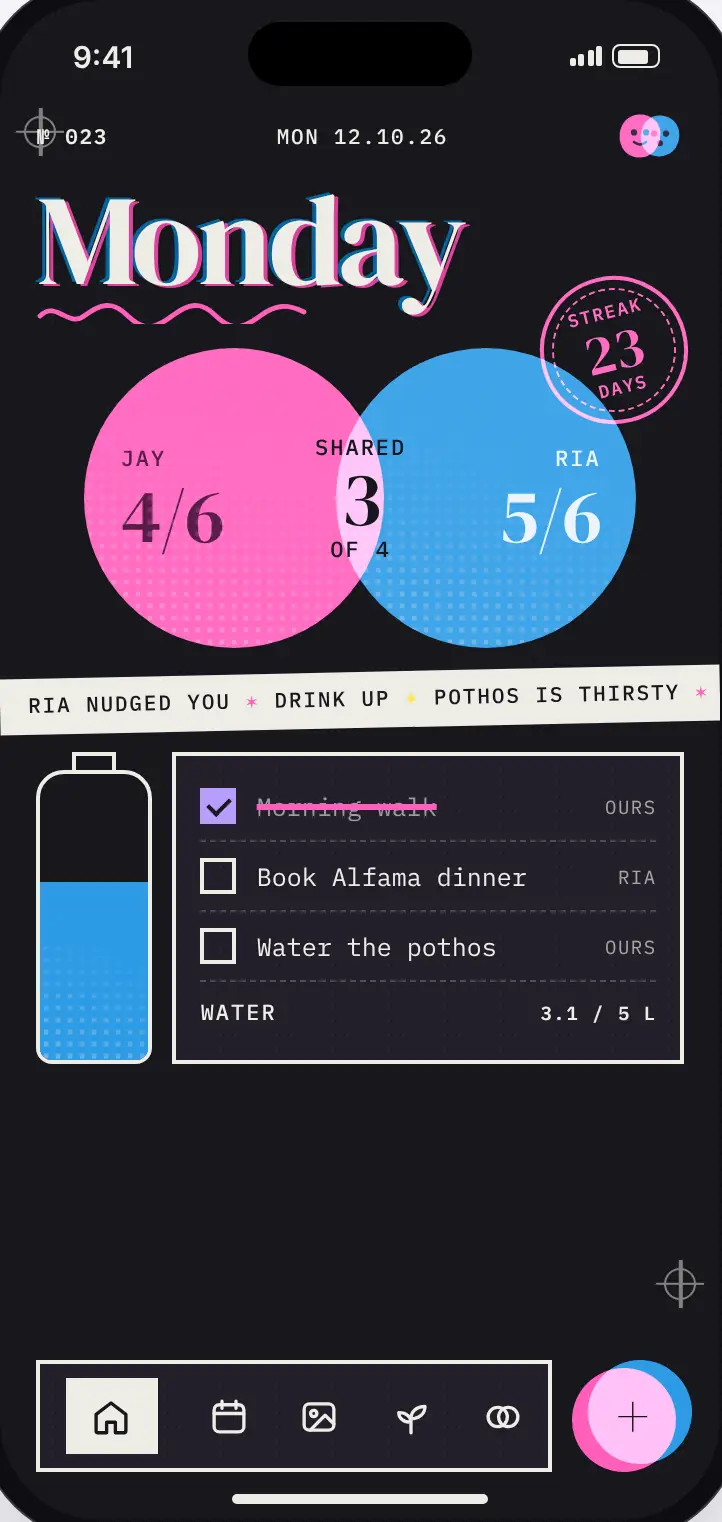
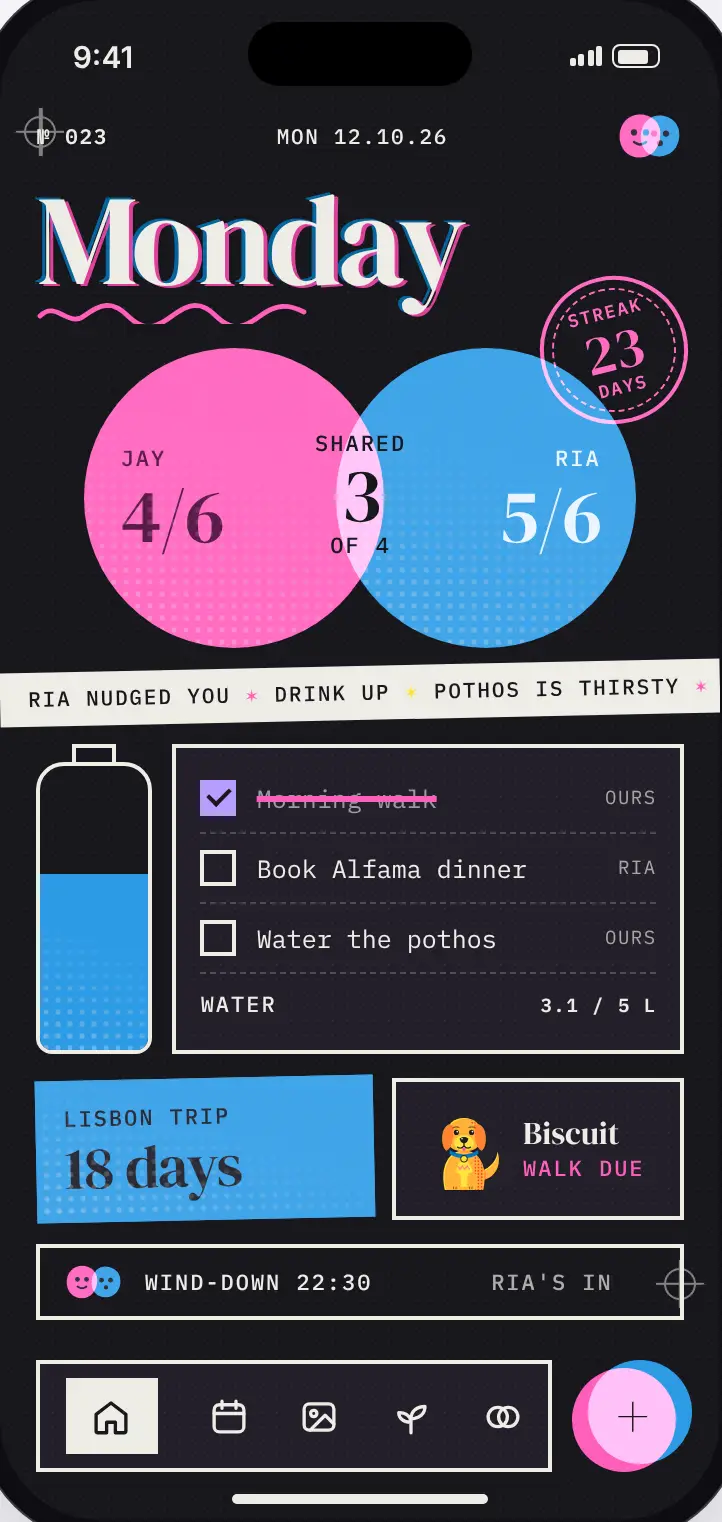
New hero, fuller home screen, scroll effects
Hero pairs the home and water screens with a nudge note, a dog and a
monstera. Home screen gains a trip countdown, pet card and wind-down
row. Scroll progress bar, speed-linked misregistration, parallax drift
and ticker skew (all off under reduced motion). Text selection off.
Removed sign-in mentions.

Claude-Session: https://claude.ai/code/session_01V7NwzhAa3YHPEejGS6mrdA

diff --git a/styles.css b/styles.css
@@ -27,6 +27,9 @@ body{margin:0;background:var(--paper);color:var(--ink);font:400 17px/1.55 var(--
   background-image:radial-gradient(var(--dot) .6px,transparent .9px);background-size:5px 5px}
 img{display:block;max-width:100%;height:auto}
 a{color:inherit}
+html{-webkit-user-select:none;user-select:none;-webkit-touch-callout:none}
+img,svg,a{-webkit-user-drag:none}
+input,textarea{-webkit-user-select:text;user-select:text}
 h1,h2,h3,p,ol,ul,dl,dd,figure{margin:0}
 ol,ul{padding:0;list-style:none}
 [hidden]{display:none!important}
@@ -38,8 +41,8 @@ ol,ul{padding:0;list-style:none}
 .sr-only{position:absolute;width:1px;height:1px;overflow:hidden;clip:rect(0 0 0 0);white-space:nowrap}
 
 /* print kit */
-.mis{text-shadow:.035em .02em 0 color-mix(in srgb,var(--pink) 80%,transparent),-.035em -.02em 0 color-mix(in srgb,var(--blue) 75%,transparent)}
-.mis--night{text-shadow:.04em .03em 0 color-mix(in srgb,var(--pink) 90%,transparent)}
+.mis{text-shadow:calc(.035em + var(--v,0) * .05em) calc(.02em + var(--v,0) * .025em) 0 color-mix(in srgb,var(--pink) 80%,transparent),calc(-.035em - var(--v,0) * .05em) calc(-.02em - var(--v,0) * .025em) 0 color-mix(in srgb,var(--blue) 75%,transparent)}
+.mis--night{text-shadow:calc(.04em + var(--v,0) * .06em) calc(.03em + var(--v,0) * .03em) 0 color-mix(in srgb,var(--pink) 90%,transparent)}
 .lab,.meta{font:500 12px/1.3 var(--mono);letter-spacing:.12em;text-transform:uppercase;color:var(--grey)}
 .meta{display:flex;justify-content:space-between;max-width:420px;border-bottom:2px solid var(--ink);padding-bottom:8px;color:var(--ink)}
 .h2{font:400 clamp(40px,5.6vw,76px)/.95 var(--serif);letter-spacing:-.02em;margin-top:12px;max-width:16ch}
@@ -100,12 +103,22 @@ ol,ul{padding:0;list-style:none}
 .hero__blob--a{color:var(--pink);left:-4%;top:6%;animation:bob 7s ease-in-out infinite}
 .hero__blob--b{color:var(--blue);right:-6%;bottom:4%;animation:bob 7s ease-in-out infinite -3.5s}
 @keyframes bob{50%{translate:0 -14px;rotate:3deg}}
-.stamp--hero{right:2%;top:2%}
+.stamp--hero{right:2%;top:2%;z-index:4}
+.hero__plant{position:absolute;z-index:3;width:clamp(90px,10vw,150px);left:-20%;top:6%;rotate:-8deg;transform-origin:50% 100%}
+.hero__pet{position:absolute;z-index:4;width:clamp(96px,10vw,148px);right:4%;bottom:-2%;transform-origin:50% 100%}
+.progress{position:fixed;inset:0 0 auto;height:4px;z-index:60;pointer-events:none}
+.progress i{display:block;height:100%;width:100%;transform-origin:0 50%;transform:scaleX(var(--sp,0));background:linear-gradient(90deg,var(--pink),var(--blue))}
+.hero__art .phone--back{position:absolute;width:min(20vw,250px);right:-2%;top:12%;rotate:8deg;z-index:1;box-shadow:0 0 0 1.5px #3A3842,12px 12px 0 color-mix(in srgb,var(--pink) 85%,transparent)}
+.hnote{position:absolute;z-index:3;left:-22%;bottom:-1%;display:flex;gap:12px;align-items:center;max-width:290px;padding:14px 16px;background:#FAF9F5;color:#1B1B1F;border:2.5px solid #1B1B1F;box-shadow:6px 6px 0 var(--blue);rotate:-4deg}
+.hnote::before{content:"";position:absolute;width:70px;height:20px;top:-11px;left:50%;translate:-50% 0;rotate:3deg;background:color-mix(in srgb,#FFE33B 85%,transparent)}
+.hnote__blob{flex:none;width:44px;height:44px;color:#0078BF}
+.hnote__lab{display:block;font:500 10.5px/1.3 var(--mono);letter-spacing:.1em;text-transform:uppercase;color:#5F5D66}
+.hnote b{display:block;font:400 22px/1.05 var(--serif);margin-top:4px}
 
 /* phones */
 .phone{position:relative;border-radius:15% / 7.1%;background:#0E0D12;padding:3.2%;box-shadow:0 0 0 1.5px #3A3842}
 .phone img{width:100%;aspect-ratio:722/1522;border-radius:13.4% / 6.36%}
-.phone--hero{width:min(25vw,310px);rotate:3deg;z-index:2;box-shadow:0 0 0 1.5px #3A3842,14px 14px 0 color-mix(in srgb,var(--blue) 85%,transparent)}
+.phone--hero{width:min(25vw,310px);rotate:-3deg;z-index:2;margin-right:22%;box-shadow:0 0 0 1.5px #3A3842,14px 14px 0 color-mix(in srgb,var(--blue) 85%,transparent)}
 
 /* ticker */
 .ticker{border-block:2.5px solid var(--ink);background:var(--ink);color:var(--paper);overflow:hidden;font:500 13px/1 var(--mono);letter-spacing:.12em;text-transform:uppercase}
@@ -296,7 +309,14 @@ details p{color:var(--grey);padding:0 0 22px;max-width:56ch}
   .hero__title{font-size:clamp(44px,12.5vw,64px)}
   .hero__art{min-height:0;padding:var(--s4) 0 var(--s3)}
   .hero__blob{width:62vw;height:62vw}
-  .phone--hero{width:62vw;max-width:280px}
+  .phone--hero{width:56vw;max-width:270px;margin-right:24%}
+  .hero__art .phone--back{width:42vw;max-width:200px;right:0;top:14%}
+  .hero__art{padding-bottom:64px}
+  .hnote{left:0;bottom:0;max-width:min(78vw,280px);padding:10px 12px}
+  .hnote b{font-size:18px}
+  .hnote__blob{width:34px;height:34px}
+  .hero__plant{width:74px;left:-2%;top:30%}
+  .hero__pet{width:84px;right:0;bottom:0}
   .stamp--hero{width:88px;height:88px;font-size:9px;right:0;top:0}
   .stamp b{font-size:26px}
 
@@ -383,19 +403,29 @@ details p{color:var(--grey);padding:0 0 22px;max-width:56ch}
 @media (prefers-reduced-motion:no-preference){
   /* headings print slightly off-register, then settle */
   .js .h2.mis,.js .get__title{text-shadow:none}
-  .js .h2.mis.is-in,.js .get__title.is-in{animation:settle 1.1s var(--ease) both}
+  .js .h2.mis.is-in,.js .get__title.is-in{animation:settle 1.1s var(--ease) backwards}
   @keyframes settle{
     from{text-shadow:.16em .09em 0 color-mix(in srgb,var(--pink) 80%,transparent),-.16em -.09em 0 color-mix(in srgb,var(--blue) 75%,transparent)}
     to{text-shadow:.035em .02em 0 color-mix(in srgb,var(--pink) 80%,transparent),-.035em -.02em 0 color-mix(in srgb,var(--blue) 75%,transparent)}}
   .js .night .h2.mis.is-in,.js .get__title.is-in{animation-name:settle-night}
   @keyframes settle-night{from{text-shadow:.16em .1em 0 color-mix(in srgb,var(--pink) 90%,transparent)}to{text-shadow:.04em .03em 0 color-mix(in srgb,var(--pink) 90%,transparent)}}
 
+  /* hero pet and plant */
+  .hero__pet{animation:wag 2.6s ease-in-out infinite}
+  .hero__plant{animation:sway 5s ease-in-out infinite}
+  @keyframes wag{0%,100%{rotate:0deg}20%{rotate:-4deg;translate:0 -6px}40%{rotate:3deg;translate:0 0}}
+  .hero__pet,.hero__plant{transform:translateY(calc(var(--py,0) * -.22px))}
+  /* scroll-linked drift */
+  [data-par]{transform:translateY(var(--par,0px))}
+  .ticker{transform:skewX(calc(var(--v,0) * -8deg))}
   /* hero: the title settles on load, the phone floats, blobs drift on scroll */
-  .hero__title{animation:settle 1.4s .15s var(--ease) both}
+  .hero__title{animation:settle 1.4s .15s var(--ease) backwards}
   .phone--hero{animation:float 6s ease-in-out infinite}
   .hero__blob--a{transform:translateY(calc(var(--py,0) * -.18px))}
   .hero__blob--b{transform:translateY(calc(var(--py,0) * .12px))}
   .hero__art .phone--hero{transform:translateY(calc(var(--py,0) * -.08px))}
+  .phone--back{animation:float 7s ease-in-out infinite -2.5s}
+  .hnote{animation:bob-sm 4.5s ease-in-out infinite -1s}
   @keyframes float{50%{translate:0 -12px}}
   .stamp{animation:spin 40s linear infinite}
   @keyframes spin{to{rotate:372deg}}

diff --git a/index.html b/index.html
@@ -29,6 +29,7 @@
 </script>
 </head>
 <body>
+<div class="progress" aria-hidden="true"><i></i></div>
 <svg width="0" height="0" style="position:absolute" aria-hidden="true"><symbol id="blob1" viewBox="0 0 40 40"><path fill="currentColor" d="M20 2c9 0 17 6 17 16 0 11-7 20-17 20S3 31 3 20C3 9 11 2 20 2z"/><circle cx="15" cy="17" r="2.6" fill="#1B1B1F"/><circle cx="25" cy="17" r="2.6" fill="#1B1B1F"/><path d="M15 25q5 4 10 0" stroke="#1B1B1F" stroke-width="2" fill="none" stroke-linecap="round"/></symbol><symbol id="blob2" viewBox="0 0 40 40"><path fill="currentColor" d="M21 3c10 1 16 8 15 18-1 10-8 16-17 16S3 30 4 19C5 9 12 2 21 3z"/><circle cx="15" cy="18" r="2.6" fill="#1B1B1F"/><circle cx="25" cy="18" r="2.6" fill="#1B1B1F"/><circle cx="20" cy="26" r="2.4" fill="#1B1B1F"/></symbol><symbol id="star" viewBox="0 0 24 24"><path fill="currentColor" d="M12 1l2.4 7.6L22 11l-7.6 2.4L12 21l-2.4-7.6L2 11l7.6-2.4z"/></symbol><symbol id="squig" viewBox="0 0 140 12"><path d="M2 8c8-8 14 6 22 0s14-8 22 0 14 6 22 0 14-8 22 0 14 6 22 0 14-6 22-2" fill="none" stroke="currentColor" stroke-width="2.4" stroke-linecap="round"/></symbol></svg>
 <svg width="0" height="0" style="position:absolute" aria-hidden="true">
   <defs>
@@ -205,13 +206,22 @@
     <div class="hero__art">
       <svg class="hero__blob hero__blob--a" aria-hidden="true"><use href="#blob1"/></svg>
       <svg class="hero__blob hero__blob--b" aria-hidden="true"><use href="#blob2"/></svg>
+      <figure class="phone phone--back">
+        <img src="img/water.webp" alt="" width="722" height="1522" loading="eager">
+      </figure>
       <figure class="phone phone--hero">
         <span class="tape" aria-hidden="true"></span>
         <picture>
           <source srcset="img/home-dark.webp" media="(prefers-color-scheme: dark)" data-dark-src>
-          <img src="img/home.webp" alt="Home screen: Jay's and Ria's tasks overlap in the middle, with a shared water bottle and today's list" width="722" height="1522" fetchpriority="high">
+          <img src="img/home.webp" alt="Home screen: Jay's and Ria's tasks overlap in the middle, with shared water, today's list, a trip countdown, Biscuit the dog and tonight's wind-down" width="722" height="1522" fetchpriority="high">
         </picture>
       </figure>
+      <div class="hnote" aria-hidden="true">
+        <svg class="hnote__blob"><use href="#blob2"/></svg>
+        <div><span class="hnote__lab">Nudge from Ria · 14:06</span><b>Sip something, you raisin.</b></div>
+      </div>
+      <svg class="hero__plant" viewBox="0 0 120 120" aria-hidden="true"><use href="#pl-monstera"/></svg>
+      <svg class="hero__pet" viewBox="0 0 120 120" aria-hidden="true"><use href="#pet-dog"/></svg>
       <span class="stamp stamp--hero" aria-hidden="true">Two<b>×</b>One</span>
     </div>
   </div>
@@ -326,7 +336,7 @@
       <li><svg viewBox="0 0 120 120" role="img" aria-label="Goldie, a goldfish"><use href="#pet-fish"/></svg><b>Goldie</b><span>Goldfish</span></li>
     </ul>
     <div class="world__row">
-      <figure class="phone phone--world"><img src="img/pet.webp" alt="Biscuit's page: a portrait, a mood stamp, four needs bars and care buttons" width="722" height="1522" loading="lazy"></figure>
+      <figure class="phone phone--world" data-par="0.07"><img src="img/pet.webp" alt="Biscuit's page: a portrait, a mood stamp, four needs bars and care buttons" width="722" height="1522" loading="lazy"></figure>
       <div class="plants">
         <p class="lab">Plus ten plants</p>
         <div class="plants__row">
@@ -336,7 +346,7 @@
         </div>
         <p class="body">Each one grows through three sizes. A long streak shows up as a fuller plant.</p>
       </div>
-      <figure class="phone phone--world phone--tilt"><img src="img/greenhouse.webp" alt="The greenhouse: plants on printed shelves, locked ones shown as outlines" width="722" height="1522" loading="lazy"></figure>
+      <figure class="phone phone--world phone--tilt" data-par="-0.07"><img src="img/greenhouse.webp" alt="The greenhouse: plants on printed shelves, locked ones shown as outlines" width="722" height="1522" loading="lazy"></figure>
     </div>
   </div>
 </section>
@@ -365,8 +375,8 @@
       </div>
     </div>
     <div class="night__art">
-      <figure class="phone phone--night-a"><img src="img/night-write.webp" alt="Writing screen: a shared timer at 07:48 and both word counts" width="722" height="1522" loading="lazy"></figure>
-      <figure class="phone phone--night-b"><img src="img/night-after.webp" alt="After writing: lights out, word counts, and words you both used" width="722" height="1522" loading="lazy"></figure>
+      <figure class="phone phone--night-a" data-par="0.09"><img src="img/night-write.webp" alt="Writing screen: a shared timer at 07:48 and both word counts" width="722" height="1522" loading="lazy"></figure>
+      <figure class="phone phone--night-b" data-par="-0.07"><img src="img/night-after.webp" alt="After writing: lights out, word counts, and words you both used" width="722" height="1522" loading="lazy"></figure>
     </div>
   </div>
 </section>
@@ -382,7 +392,7 @@
       <div><dt>Missed a day</dt><dd>Leaves blank paper, not a broken number.</dd></div>
       <div><dt>Private tasks</dt><dd>Print in grey with a lock. Your partner doesn't see them.</dd></div>
       <div><dt>Your journal</dt><dd>Only you can read it. They see stats and mood.</dd></div>
-      <div><dt>Sign in</dt><dd>With Apple. No new password.</dd></div>
+      <div><dt>Pets</dt><dd>Wander off if forgotten. Call them home three days running.</dd></div>
     </dl>
   </div>
 </section>
@@ -416,7 +426,7 @@
       </div>
       <p class="get__status" role="status" data-share-status></p>
     </div>
-    <figure class="phone phone--get"><span class="tape" aria-hidden="true"></span><img src="img/streak.webp" alt="Streak card: a poster with the shared day count in the overlap of two inks" width="722" height="1522" loading="lazy"></figure>
+    <figure class="phone phone--get" data-par="-0.08"><span class="tape" aria-hidden="true"></span><img src="img/streak.webp" alt="Streak card: a poster with the shared day count in the overlap of two inks" width="722" height="1522" loading="lazy"></figure>
   </div>
 </section>
 

diff --git a/index.src.html b/index.src.html
@@ -29,6 +29,7 @@
 </script>
 </head>
 <body>
+<div class="progress" aria-hidden="true"><i></i></div>
 <!--SPRITES-->
 <a class="skip" href="#main">Skip to content</a>
 
@@ -70,13 +71,22 @@
     <div class="hero__art">
       <svg class="hero__blob hero__blob--a" aria-hidden="true"><use href="#blob1"/></svg>
       <svg class="hero__blob hero__blob--b" aria-hidden="true"><use href="#blob2"/></svg>
+      <figure class="phone phone--back">
+        <img src="img/water.webp" alt="" width="722" height="1522" loading="eager">
+      </figure>
       <figure class="phone phone--hero">
         <span class="tape" aria-hidden="true"></span>
         <picture>
           <source srcset="img/home-dark.webp" media="(prefers-color-scheme: dark)" data-dark-src>
-          <img src="img/home.webp" alt="Home screen: Jay's and Ria's tasks overlap in the middle, with a shared water bottle and today's list" width="722" height="1522" fetchpriority="high">
+          <img src="img/home.webp" alt="Home screen: Jay's and Ria's tasks overlap in the middle, with shared water, today's list, a trip countdown, Biscuit the dog and tonight's wind-down" width="722" height="1522" fetchpriority="high">
         </picture>
       </figure>
+      <div class="hnote" aria-hidden="true">
+        <svg class="hnote__blob"><use href="#blob2"/></svg>
+        <div><span class="hnote__lab">Nudge from Ria · 14:06</span><b>Sip something, you raisin.</b></div>
+      </div>
+      <svg class="hero__plant" viewBox="0 0 120 120" aria-hidden="true"><use href="#pl-monstera"/></svg>
+      <svg class="hero__pet" viewBox="0 0 120 120" aria-hidden="true"><use href="#pet-dog"/></svg>
       <span class="stamp stamp--hero" aria-hidden="true">Two<b>×</b>One</span>
     </div>
   </div>
@@ -191,7 +201,7 @@
       <li><svg viewBox="0 0 120 120" role="img" aria-label="Goldie, a goldfish"><use href="#pet-fish"/></svg><b>Goldie</b><span>Goldfish</span></li>
     </ul>
     <div class="world__row">
-      <figure class="phone phone--world"><img src="img/pet.webp" alt="Biscuit's page: a portrait, a mood stamp, four needs bars and care buttons" width="722" height="1522" loading="lazy"></figure>
+      <figure class="phone phone--world" data-par="0.07"><img src="img/pet.webp" alt="Biscuit's page: a portrait, a mood stamp, four needs bars and care buttons" width="722" height="1522" loading="lazy"></figure>
       <div class="plants">
         <p class="lab">Plus ten plants</p>
         <div class="plants__row">
@@ -201,7 +211,7 @@
         </div>
         <p class="body">Each one grows through three sizes. A long streak shows up as a fuller plant.</p>
       </div>
-      <figure class="phone phone--world phone--tilt"><img src="img/greenhouse.webp" alt="The greenhouse: plants on printed shelves, locked ones shown as outlines" width="722" height="1522" loading="lazy"></figure>
+      <figure class="phone phone--world phone--tilt" data-par="-0.07"><img src="img/greenhouse.webp" alt="The greenhouse: plants on printed shelves, locked ones shown as outlines" width="722" height="1522" loading="lazy"></figure>
     </div>
   </div>
 </section>
@@ -230,8 +240,8 @@
       </div>
     </div>
     <div class="night__art">
-      <figure class="phone phone--night-a"><img src="img/night-write.webp" alt="Writing screen: a shared timer at 07:48 and both word counts" width="722" height="1522" loading="lazy"></figure>
-      <figure class="phone phone--night-b"><img src="img/night-after.webp" alt="After writing: lights out, word counts, and words you both used" width="722" height="1522" loading="lazy"></figure>
+      <figure class="phone phone--night-a" data-par="0.09"><img src="img/night-write.webp" alt="Writing screen: a shared timer at 07:48 and both word counts" width="722" height="1522" loading="lazy"></figure>
+      <figure class="phone phone--night-b" data-par="-0.07"><img src="img/night-after.webp" alt="After writing: lights out, word counts, and words you both used" width="722" height="1522" loading="lazy"></figure>
     </div>
   </div>
 </section>
@@ -247,7 +257,7 @@
       <div><dt>Missed a day</dt><dd>Leaves blank paper, not a broken number.</dd></div>
       <div><dt>Private tasks</dt><dd>Print in grey with a lock. Your partner doesn't see them.</dd></div>
       <div><dt>Your journal</dt><dd>Only you can read it. They see stats and mood.</dd></div>
-      <div><dt>Sign in</dt><dd>With Apple. No new password.</dd></div>
+      <div><dt>Pets</dt><dd>Wander off if forgotten. Call them home three days running.</dd></div>
     </dl>
   </div>
 </section>
@@ -281,7 +291,7 @@
       </div>
       <p class="get__status" role="status" data-share-status></p>
     </div>
-    <figure class="phone phone--get"><span class="tape" aria-hidden="true"></span><img src="img/streak.webp" alt="Streak card: a poster with the shared day count in the overlap of two inks" width="722" height="1522" loading="lazy"></figure>
+    <figure class="phone phone--get" data-par="-0.08"><span class="tape" aria-hidden="true"></span><img src="img/streak.webp" alt="Streak card: a poster with the shared day count in the overlap of two inks" width="722" height="1522" loading="lazy"></figure>
   </div>
 </section>
 

diff --git a/main.js b/main.js
@@ -80,6 +80,28 @@ if (!reduced) {
   addEventListener('scroll', () => { if (!ticking) { ticking = true; requestAnimationFrame(upd); } }, { passive: true });
 }
 
+/* Scroll effects: progress bar, speed-based misregistration, drift */
+const progress = $('.progress');
+const pars = $$('[data-par]');
+let lastY = scrollY, vel = 0, raf = 0;
+const frame = () => {
+  raf = 0;
+  const max = document.documentElement.scrollHeight - innerHeight;
+  progress.style.setProperty('--sp', max > 0 ? (scrollY / max).toFixed(4) : 0);
+  if (reduced) return;
+  const dy = scrollY - lastY; lastY = scrollY;
+  vel += (Math.max(-1, Math.min(1, dy / 60)) - vel) * .25;
+  root.style.setProperty('--v', Math.abs(vel).toFixed(3));
+  pars.forEach(el => {
+    const r = el.parentElement.getBoundingClientRect();
+    if (r.bottom < 0 || r.top > innerHeight) return;
+    el.style.setProperty('--par', `${((r.top + r.height / 2 - innerHeight / 2) * +el.dataset.par).toFixed(1)}px`);
+  });
+  if (Math.abs(vel) > .002) raf = requestAnimationFrame(frame); else root.style.setProperty('--v', 0);
+};
+addEventListener('scroll', () => { if (!raf) raf = requestAnimationFrame(frame); }, { passive: true });
+frame();
+
 /* Bars grow in */
 if (!reduced) {
   const duals = $$('.bars');

diff --git a/privacy.html b/privacy.html
@@ -54,7 +54,7 @@
       <section aria-labelledby="collect">
         <h2 id="collect">What we keep</h2>
         <dl class="doc__list">
-          <div><dt>Account</dt><dd>You sign in with Apple. We get your name and Apple's private relay email (or your real email, if you choose to share it). No passwords.</dd></div>
+          <div><dt>Account</dt><dd>Your name and an email address, so we can keep your account and your partner knows it's you.</dd></div>
           <div><dt>What you add</dt><dd>Water, tasks, events, goals, moods, messages in The Hideout, drawings, game turns and your pets and plants.</dd></div>
           <div><dt>Photos</dt><dd>Photos you add to the calendar. We store the original and a small copy for quick loading.</dd></div>
           <div><dt>Journal</dt><dd>Wind-down entries. Only you can read the text. Your partner sees stats, never words.</dd></div>

diff --git a/build_docs.py b/build_docs.py
@@ -72,7 +72,7 @@ PRIVACY = '''
       <section aria-labelledby="collect">
         <h2 id="collect">What we keep</h2>
         <dl class="doc__list">
-          <div><dt>Account</dt><dd>You sign in with Apple. We get your name and Apple's private relay email (or your real email, if you choose to share it). No passwords.</dd></div>
+          <div><dt>Account</dt><dd>Your name and an email address, so we can keep your account and your partner knows it's you.</dd></div>
           <div><dt>What you add</dt><dd>Water, tasks, events, goals, moods, messages in The Hideout, drawings, game turns and your pets and plants.</dd></div>
           <div><dt>Photos</dt><dd>Photos you add to the calendar. We store the original and a small copy for quick loading.</dd></div>
           <div><dt>Journal</dt><dd>Wind-down entries. Only you can read the text. Your partner sees stats, never words.</dd></div>
